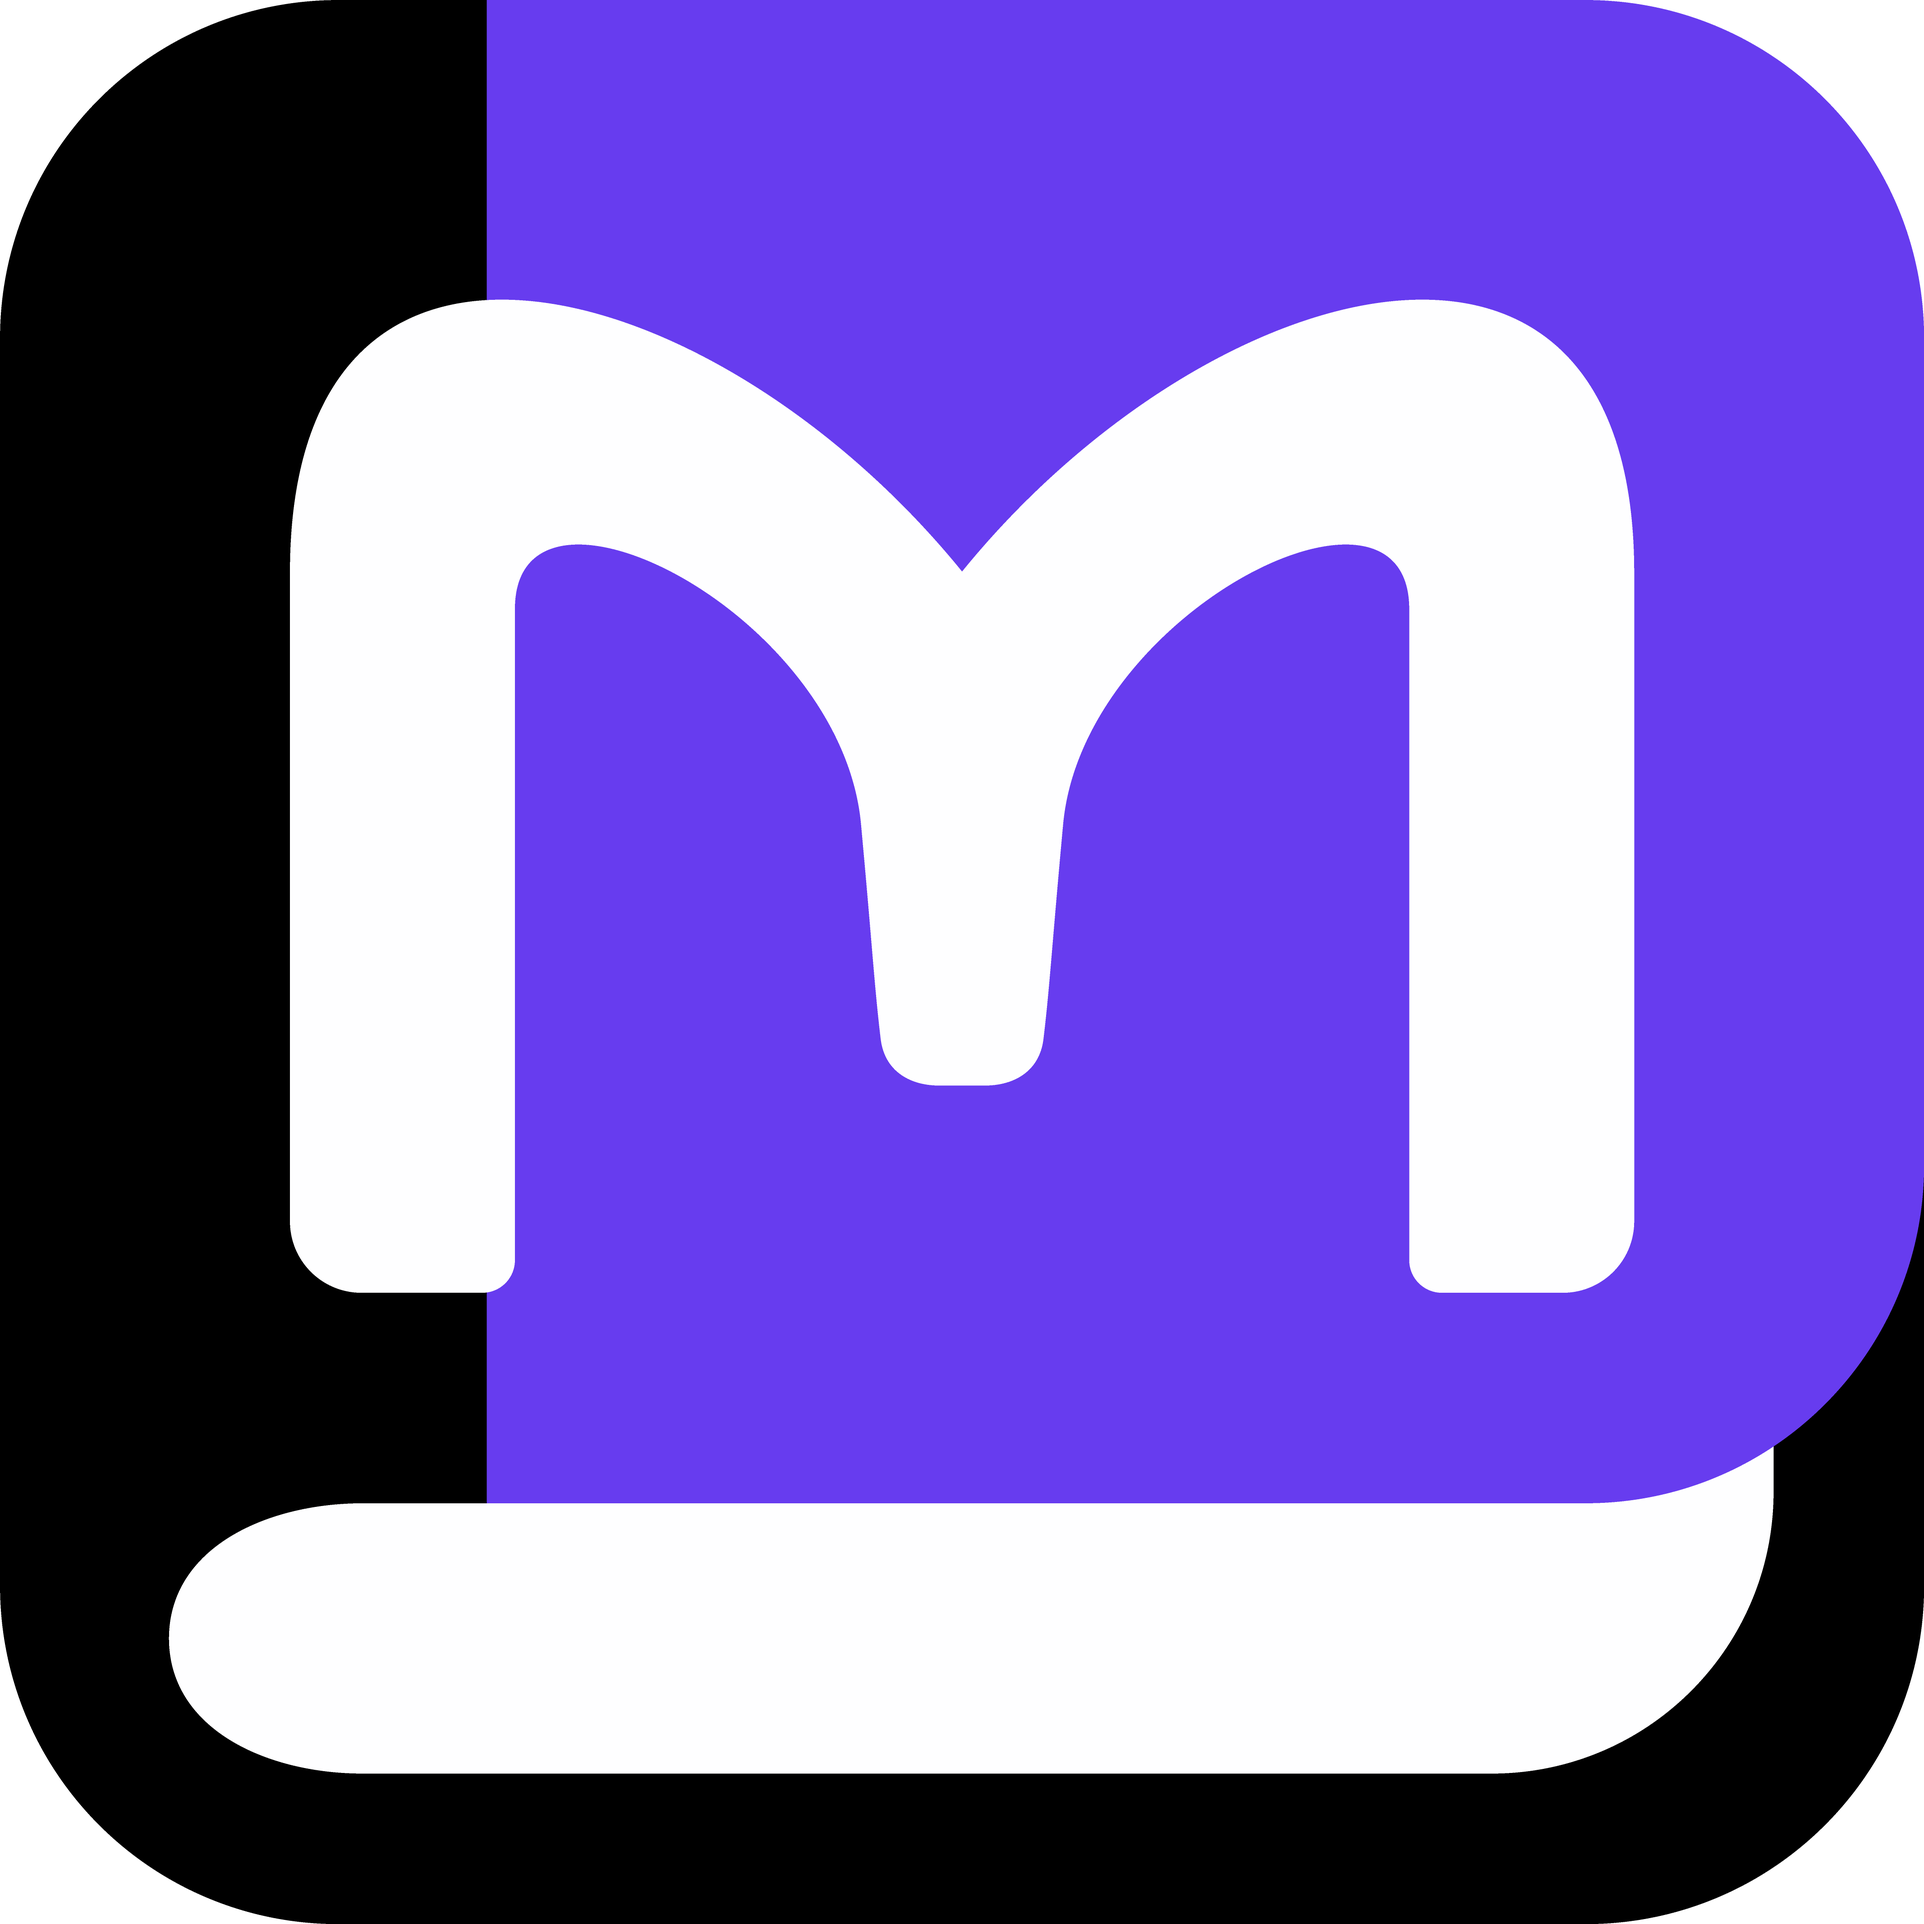
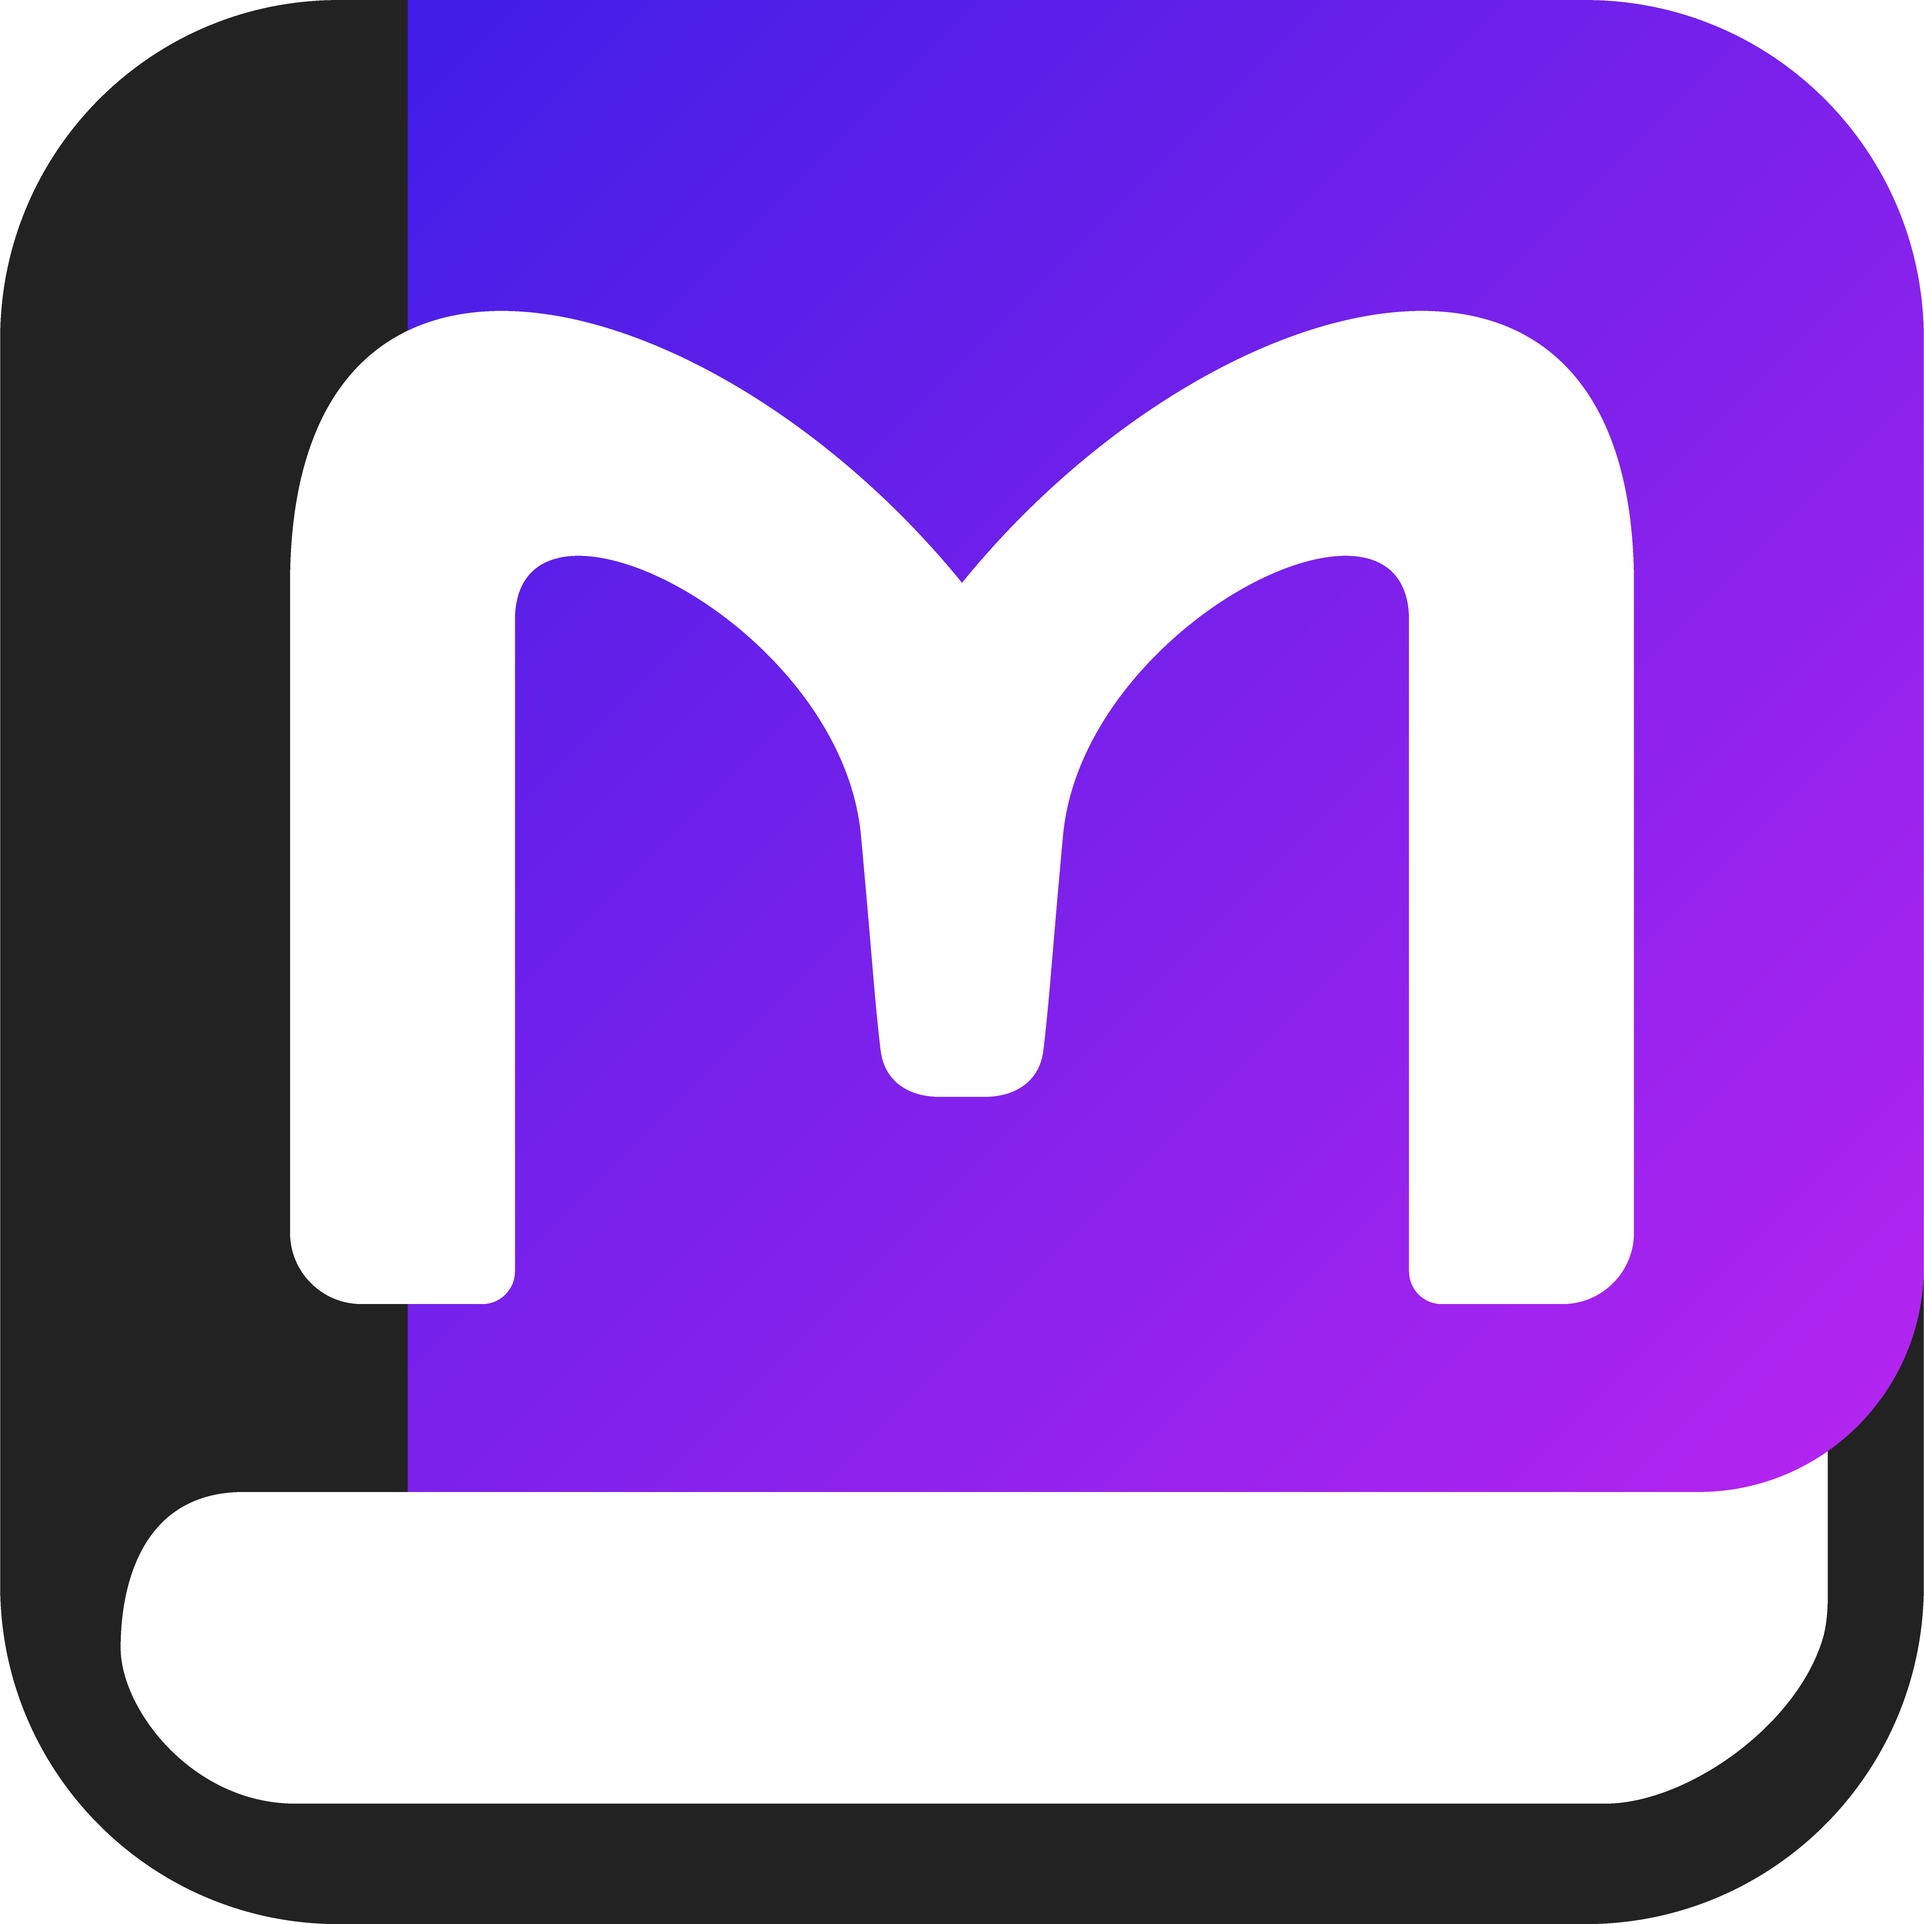
1

diff --git a/index.html b/index.html
@@ -3,14 +3,14 @@
 <head>
     
  <!-- favicons -->
-<link rel="apple-touch-icon" sizes="180x180" href="https://ghtea.github.io/hots/a/apple-touch-icon.png">
-<link rel="icon" type="image/png" sizes="32x32" href="https://ghtea.github.io/hots/a/favicon-32x32.png">
-<link rel="icon" type="image/png" sizes="16x16" href="https://ghtea.github.io/hots/a/favicon-16x16.png">
-<link rel="manifest" href="https://ghtea.github.io/hots/a/site.webmanifest">
-<link rel="mask-icon" href="https://ghtea.github.io/hots/a/safari-pinned-tab.svg" color="#673cef">
-<link rel="shortcut icon" href="https://ghtea.github.io/hots/a/favicon.ico">
-<meta name="msapplication-TileColor" content="#673cef">
-<meta name="msapplication-config" content="https://ghtea.github.io/hots/a/browserconfig.xml">
+<link rel="apple-touch-icon" sizes="180x180" href="https://ghtea.github.io/hots/a/favicons/apple-touch-icon.png">
+<link rel="icon" type="image/png" sizes="32x32" href="https://ghtea.github.io/hots/a/favicons/favicon-32x32.png">
+<link rel="icon" type="image/png" sizes="16x16" href="https://ghtea.github.io/hots/a/favicons/favicon-16x16.png">
+<link rel="manifest" href="https://ghtea.github.io/hots/a/favicons/site.webmanifest">
+<link rel="mask-icon" href="https://ghtea.github.io/hots/a/favicons/safari-pinned-tab.svg" color="#7922eb">
+<link rel="shortcut icon" href="https://ghtea.github.io/hots/a/favicons/favicon.ico">
+<meta name="msapplication-TileColor" content="#7922eb">
+<meta name="msapplication-config" content="https://ghtea.github.io/hots/a/favicons/browserconfig.xml">
 <meta name="theme-color" content="#ffffff">
 
   <!-- css  by mbcat  -->

diff --git a/jp/index.html b/jp/index.html
@@ -3,14 +3,14 @@
 <head>
     
  <!-- favicons -->
-<link rel="apple-touch-icon" sizes="180x180" href="https://ghtea.github.io/hots/a/apple-touch-icon.png">
-<link rel="icon" type="image/png" sizes="32x32" href="https://ghtea.github.io/hots/a/favicon-32x32.png">
-<link rel="icon" type="image/png" sizes="16x16" href="https://ghtea.github.io/hots/a/favicon-16x16.png">
-<link rel="manifest" href="https://ghtea.github.io/hots/a/site.webmanifest">
-<link rel="mask-icon" href="https://ghtea.github.io/hots/a/safari-pinned-tab.svg" color="#673cef">
-<link rel="shortcut icon" href="https://ghtea.github.io/hots/a/favicon.ico">
-<meta name="msapplication-TileColor" content="#673cef">
-<meta name="msapplication-config" content="https://ghtea.github.io/hots/a/browserconfig.xml">
+<link rel="apple-touch-icon" sizes="180x180" href="https://ghtea.github.io/hots/a/favicons/apple-touch-icon.png">
+<link rel="icon" type="image/png" sizes="32x32" href="https://ghtea.github.io/hots/a/favicons/favicon-32x32.png">
+<link rel="icon" type="image/png" sizes="16x16" href="https://ghtea.github.io/hots/a/favicons/favicon-16x16.png">
+<link rel="manifest" href="https://ghtea.github.io/hots/a/favicons/site.webmanifest">
+<link rel="mask-icon" href="https://ghtea.github.io/hots/a/favicons/safari-pinned-tab.svg" color="#7922eb">
+<link rel="shortcut icon" href="https://ghtea.github.io/hots/a/favicons/favicon.ico">
+<meta name="msapplication-TileColor" content="#7922eb">
+<meta name="msapplication-config" content="https://ghtea.github.io/hots/a/favicons/browserconfig.xml">
 <meta name="theme-color" content="#ffffff">
 
   <!-- css  by mbcat  -->

diff --git a/kr/index.html b/kr/index.html
@@ -3,14 +3,14 @@
 <head>
     
  <!-- favicons -->
-<link rel="apple-touch-icon" sizes="180x180" href="https://ghtea.github.io/hots/a/apple-touch-icon.png">
-<link rel="icon" type="image/png" sizes="32x32" href="https://ghtea.github.io/hots/a/favicon-32x32.png">
-<link rel="icon" type="image/png" sizes="16x16" href="https://ghtea.github.io/hots/a/favicon-16x16.png">
-<link rel="manifest" href="https://ghtea.github.io/hots/a/site.webmanifest">
-<link rel="mask-icon" href="https://ghtea.github.io/hots/a/safari-pinned-tab.svg" color="#673cef">
-<link rel="shortcut icon" href="https://ghtea.github.io/hots/a/favicon.ico">
-<meta name="msapplication-TileColor" content="#673cef">
-<meta name="msapplication-config" content="https://ghtea.github.io/hots/a/browserconfig.xml">
+<link rel="apple-touch-icon" sizes="180x180" href="https://ghtea.github.io/hots/a/favicons/apple-touch-icon.png">
+<link rel="icon" type="image/png" sizes="32x32" href="https://ghtea.github.io/hots/a/favicons/favicon-32x32.png">
+<link rel="icon" type="image/png" sizes="16x16" href="https://ghtea.github.io/hots/a/favicons/favicon-16x16.png">
+<link rel="manifest" href="https://ghtea.github.io/hots/a/favicons/site.webmanifest">
+<link rel="mask-icon" href="https://ghtea.github.io/hots/a/favicons/safari-pinned-tab.svg" color="#7922eb">
+<link rel="shortcut icon" href="https://ghtea.github.io/hots/a/favicons/favicon.ico">
+<meta name="msapplication-TileColor" content="#7922eb">
+<meta name="msapplication-config" content="https://ghtea.github.io/hots/a/favicons/browserconfig.xml">
 <meta name="theme-color" content="#ffffff">
 
   <!-- css  by mbcat  -->
